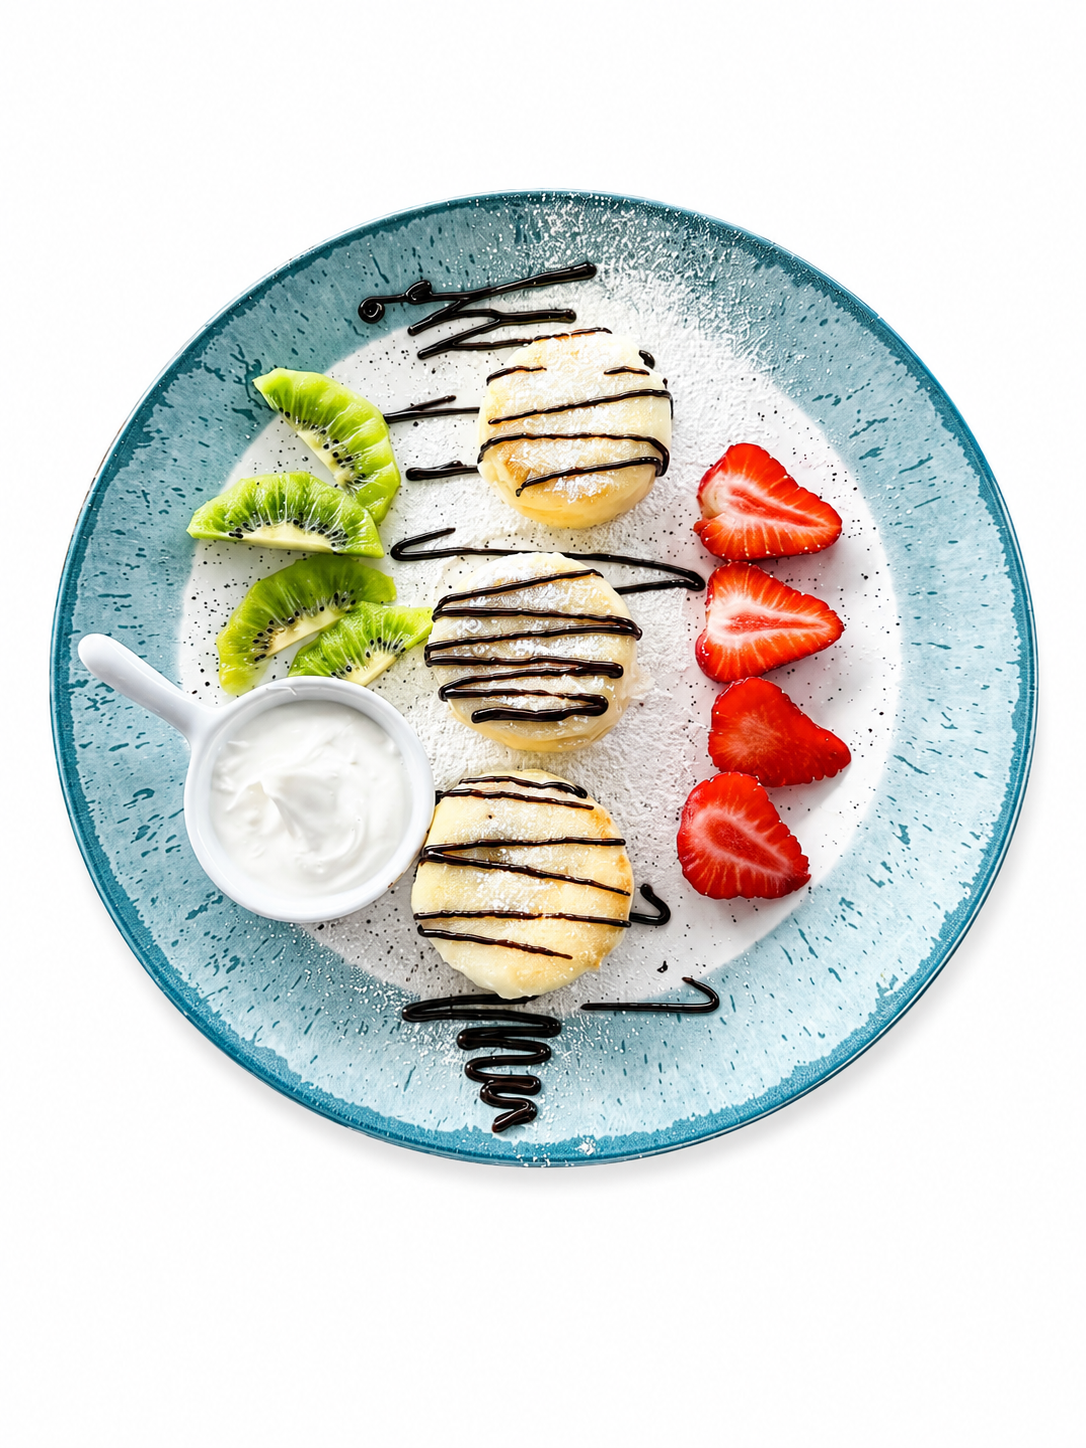
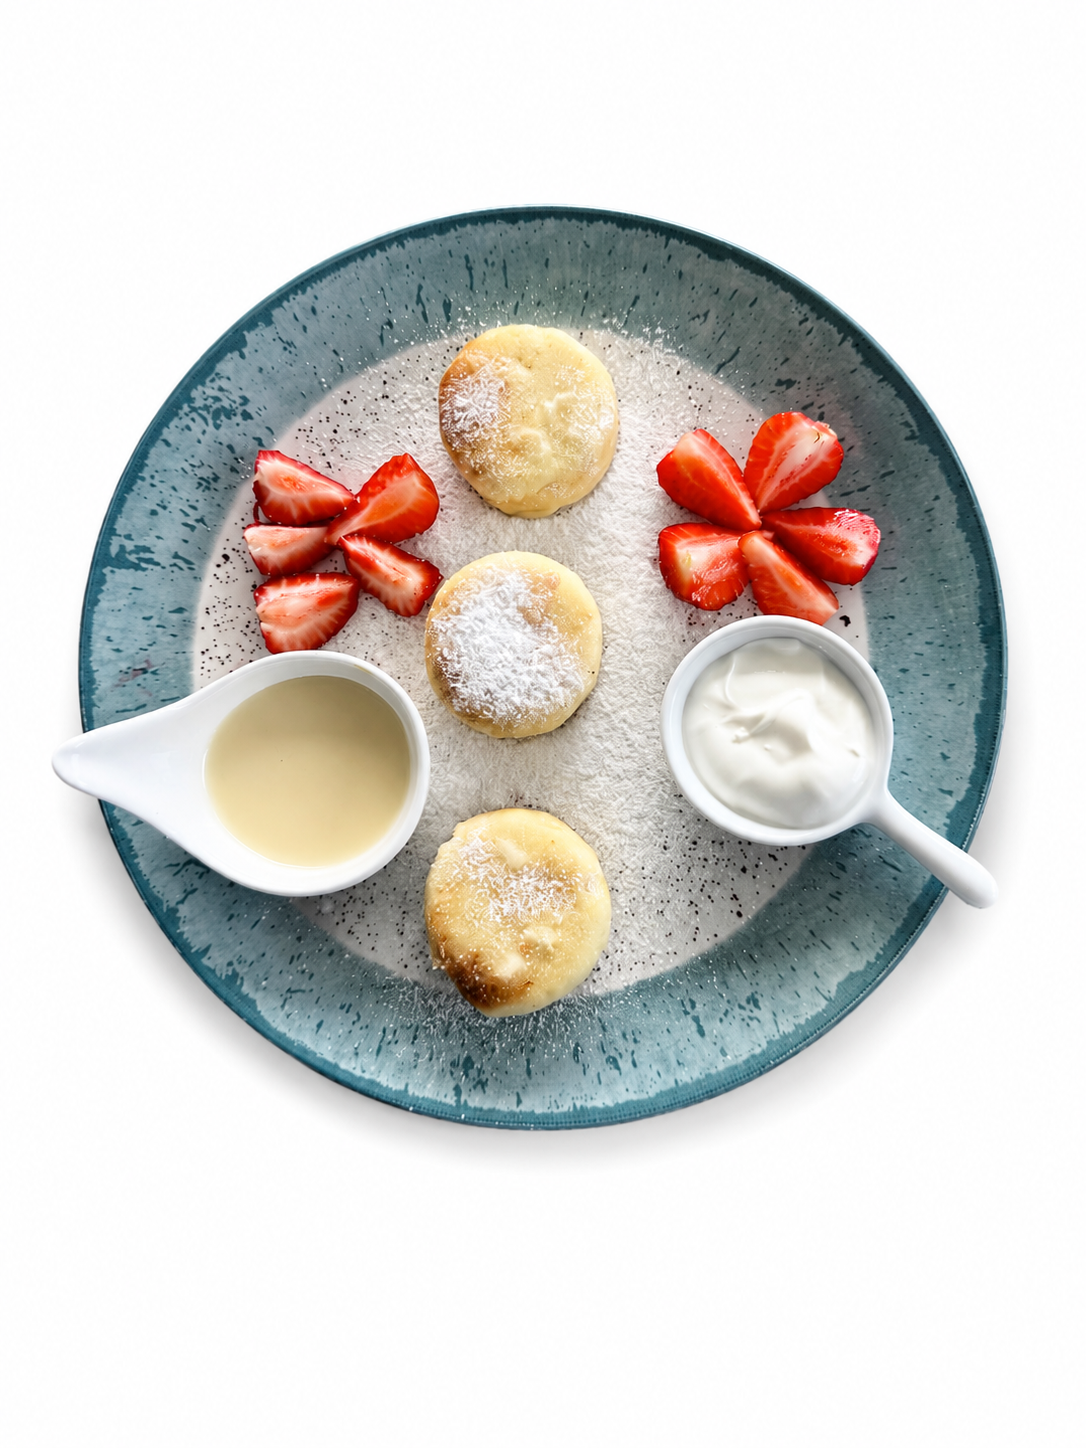
add menu item

diff --git a/src/data/restaurantMenu.ts b/src/data/restaurantMenu.ts
@@ -60,7 +60,11 @@ export const menuSections: MenuSection[] = [
         price: 220,
         image: 'images/dishes/mlyntsi.png',
       },
-      { name: 'Брускети з тунцем', price: 250 },
+      {
+        name: 'Брускети з тунцем',
+        price: 250,
+        image: 'images/dishes/bruskety-z-tuncem.png',
+      },
       {
         name: 'Боул з гречкою',
         description: 'гречка, помідор, зелень, яйце пашот, заправка',
@@ -162,6 +166,7 @@ export const menuSections: MenuSection[] = [
         name: 'Пивна дошка',
         description: 'сухарики, реберця, сирні кульки, арахіс',
         price: 450,
+        image: 'images/dishes/pyvna-doshka.png',
       },
       {
         name: 'Стейк зі свинини',
@@ -213,6 +218,81 @@ export const menuSections: MenuSection[] = [
       { name: 'Узвар', description: '1 л', price: 150 },
       { name: 'Лимонад', description: '1 л', price: 180 },
       { name: 'Сік на вибір', description: '1 л', price: 180 },
+    ],
+  },
+  {
+    id: 'coffee-and-tea',
+    title: 'Coffee and Tea',
+    items: [
+      { name: 'Еспресо', price: 40 },
+      { name: 'Американо', price: 40 },
+      { name: 'Капучино', price: 80 },
+      { name: 'Лате', price: 90 },
+      { name: 'Флет вайт', price: 100 },
+      { name: 'Подвійне еспресо', price: 60 },
+      { name: 'Айс лате', price: 120 },
+      { name: 'Оранж', price: 150 },
+      { name: 'Фрапе', price: 200 },
+      { name: 'Еспресо тонік', price: 130 },
+      { name: 'Чай', price: 50 },
+      { name: 'Какао', price: 60 },
+      { name: 'Великий чай', price: 150 },
+    ],
+  },
+  {
+    id: 'coctails',
+    title: 'Coctails',
+    items: [
+      {
+        name: 'Classic Mojito',
+        description: 'спрайт, сироп, мята, ром',
+        price: 200,
+      },
+      {
+        name: 'Aperol',
+        description: 'сухе шампанське, лікер апероль, содова, апельсин',
+        price: 300,
+      },
+      {
+        name: 'Blue Lagoon',
+        description: 'горілка, спрайт, лікер, мята',
+        price: 200,
+      },
+      {
+        name: 'Margarita',
+        description: 'текіла, лікер, сироп, сік лайма, лайм, сіль',
+        price: 250,
+      },
+      {
+        name: 'Tequila Sunrise',
+        description: 'текіла, лікер апельсиновий, сік, апельсин',
+        price: 250,
+      },
+      {
+        name: 'Gin Tonic',
+        description: 'джин, тонік, лайм',
+        price: 200,
+      },
+      {
+        name: 'Long Island Iced Tea',
+        description: 'горілка, ром, текіла, лікер, сироп, сік лимонний, кола, лимон',
+        price: 350,
+      },
+      {
+        name: 'Porn Star',
+        description: 'горілка, лікер, просеко, апельсин',
+        price: 250,
+      },
+      {
+        name: 'Pina Colada',
+        description: '2 види рому, сироп, ананасовий сік, лайм',
+        price: 250,
+      },
+      {
+        name: 'Jungle Juice',
+        description: 'джин, ананасовий сік, сироп, лікер',
+        price: 200,
+      },
     ],
   },
   {